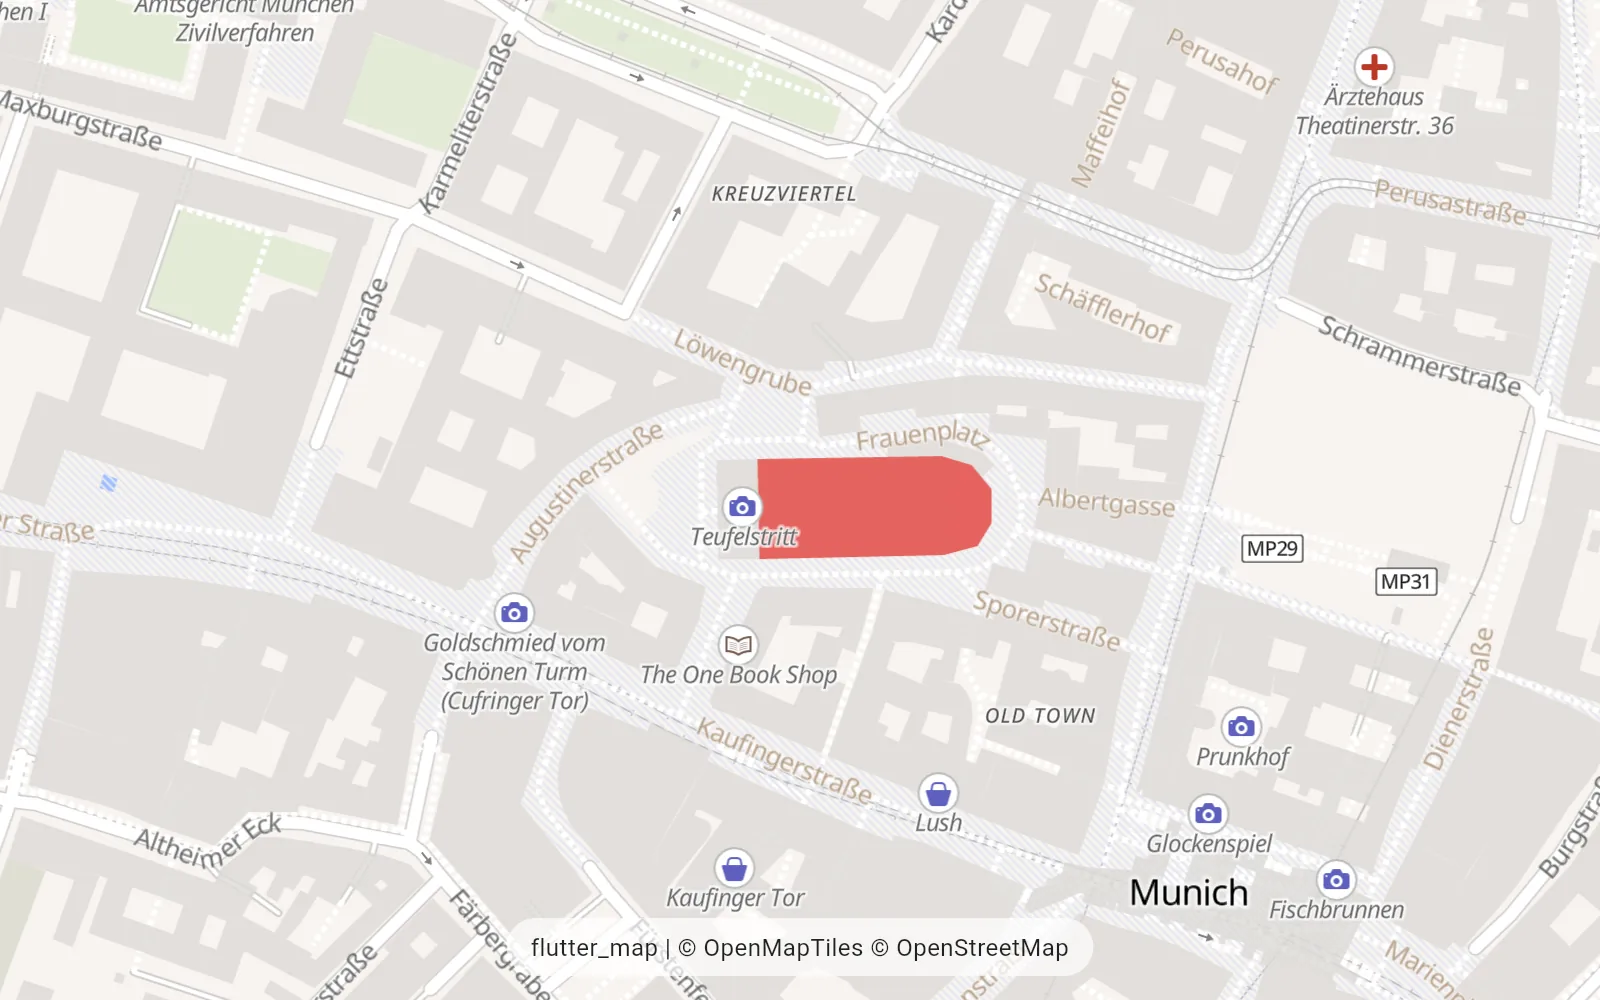
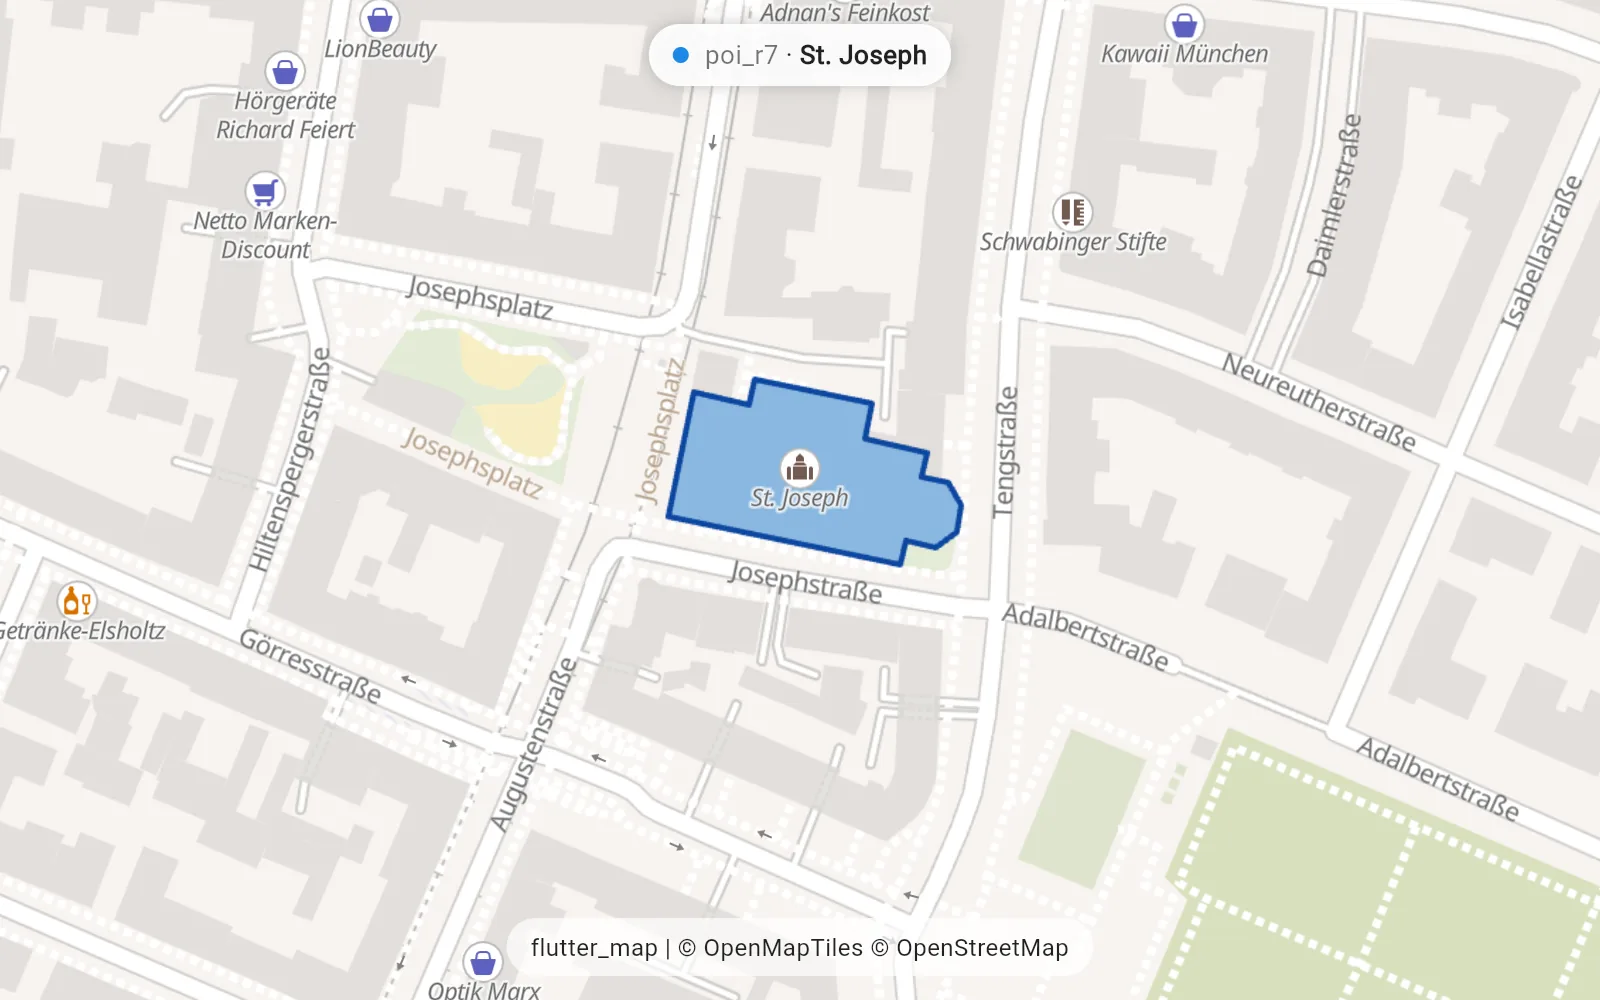
README shots: Plovdiv for scripts, a calmer query selection
The scripts shot moves from Tbilisi to Plovdiv: Liberty's label_other
uppercases Tbilisi's Georgian district names, and those drew as boxes
(probably because Georgian uppercases to Mtavruli, which the glyphs
don't cover), and the Bold capital label towered over the street
labels. Plovdiv is Cyrillic and Latin, every label real text, and its
city name is the Regular label_city.

The query shot taps St. Joseph in Munich, which is one feature in
OpenFreeMap's tiles; the Frauenkirche is split into nave and towers,
so selecting the nave stopped short of the towers. The selection is a
translucent blue fill with a darker outline now, and a pill shows the
query's top hit (poi_r7 · St. Joseph), as the example's snackbar does.

capture.mjs serves the web build on a free port instead of 8123, which
another process may hold.

diff --git a/screenshots/tool/shot_app.dart b/screenshots/tool/shot_app.dart
@@ -15,7 +15,7 @@
 // - `lang`: label language
 //
 // A tap selects the building under it through feature state, as the
-// example does.
+// example does, and shows what the query returned on top in a pill.
 import 'package:flutter/material.dart';
 import 'package:flutter_map/flutter_map.dart';
 import 'package:flutter_map_vector_tiles/flutter_map_vector_tiles.dart' as vt;
@@ -38,6 +38,7 @@ class _ShotMapState extends State<ShotMap> {
   final _features = vt.VectorTileLayerController();
   late final Future<vt.Style> _style;
   vt.RenderedFeature? _selected;
+  vt.RenderedFeature? _hit;
   vt.Theme? _theme;
 
   double _number(String name, double fallback) =>
@@ -60,12 +61,23 @@ class _ShotMapState extends State<ShotMap> {
     super.dispose();
   }
 
-  /// The style's layers plus one that paints the selected building.
+  /// The style's layers plus two that paint the selected building: a
+  /// translucent blue fill and a darker outline.
   vt.Theme _withSelection(vt.Theme theme) {
     final buildings = theme.layers
         .where((layer) => layer.sourceLayer == 'building')
         .firstOrNull;
     if (buildings == null) return theme;
+    List<Object> whenSelected(num value) => [
+          'case',
+          [
+            'boolean',
+            ['feature-state', 'selected'],
+            false
+          ],
+          value,
+          0,
+        ];
     final selection = const vt.ThemeReader().read({
       'layers': [
         {
@@ -74,17 +86,20 @@ class _ShotMapState extends State<ShotMap> {
           'source': buildings.source,
           'source-layer': 'building',
           'paint': {
-            'fill-color': '#e53935',
-            'fill-opacity': [
-              'case',
-              [
-                'boolean',
-                ['feature-state', 'selected'],
-                false
-              ],
-              0.75,
-              0,
-            ],
+            'fill-color': '#1e88e5',
+            'fill-opacity': whenSelected(0.45),
+          },
+        },
+        {
+          'id': 'selection-outline',
+          'type': 'line',
+          'source': buildings.source,
+          'source-layer': 'building',
+          'layout': {'line-join': 'round'},
+          'paint': {
+            'line-color': '#0d47a1',
+            'line-width': 2,
+            'line-opacity': whenSelected(1),
           },
         },
       ],
@@ -98,6 +113,10 @@ class _ShotMapState extends State<ShotMap> {
   void _onTap(TapPosition tap, LatLng _) {
     final point = tap.relative;
     if (point == null) return;
+    final hits = _features
+        .queryRenderedFeatures(point)
+        .where((f) => !f.layerId.startsWith('selection'))
+        .toList();
     final previous = _selected;
     if (previous != null) {
       _features.removeFeatureState(
@@ -107,21 +126,73 @@ class _ShotMapState extends State<ShotMap> {
       );
       _selected = null;
     }
-    final building = _features
-        .queryRenderedFeatures(point)
-        .where((f) =>
-            f.layerId != 'selection' &&
-            f.sourceLayer == 'building' &&
-            f.id != null)
+    final building = hits
+        .where((f) => f.sourceLayer == 'building' && f.id != null)
         .firstOrNull;
-    if (building == null) return;
-    _features.setFeatureState(
-      source: building.source,
-      sourceLayer: building.sourceLayer,
-      id: building.id!,
-      state: {'selected': true},
+    if (building != null) {
+      _features.setFeatureState(
+        source: building.source,
+        sourceLayer: building.sourceLayer,
+        id: building.id!,
+        state: {'selected': true},
+      );
+      _selected = building;
+    }
+    setState(() => _hit = hits.firstOrNull);
+  }
+
+  /// What the last tap's query returned on top, as the example's snackbar
+  /// shows it: the style layer that drew it and its name.
+  Widget _hitPill(vt.RenderedFeature hit) {
+    final name =
+        hit.properties['name'] ?? hit.properties['class'] ?? hit.geometryType;
+    return Align(
+      alignment: Alignment.topCenter,
+      child: Padding(
+        padding: const EdgeInsets.all(12),
+        child: DecoratedBox(
+          decoration: BoxDecoration(
+            color: Colors.white.withValues(alpha: 0.92),
+            borderRadius: BorderRadius.circular(16),
+            boxShadow: const [
+              BoxShadow(color: Color(0x33000000), blurRadius: 6),
+            ],
+          ),
+          child: Padding(
+            padding: const EdgeInsets.symmetric(horizontal: 12, vertical: 6),
+            child: Row(
+              mainAxisSize: MainAxisSize.min,
+              children: [
+                const DecoratedBox(
+                  decoration: BoxDecoration(
+                    color: Color(0xff1e88e5),
+                    shape: BoxShape.circle,
+                  ),
+                  child: SizedBox.square(dimension: 8),
+                ),
+                const SizedBox(width: 8),
+                Text.rich(
+                  TextSpan(
+                    style: const TextStyle(fontSize: 13, color: Colors.black87),
+                    children: [
+                      TextSpan(
+                        text: hit.layerId,
+                        style: const TextStyle(color: Colors.black54),
+                      ),
+                      const TextSpan(text: ' · '),
+                      TextSpan(
+                        text: '$name',
+                        style: const TextStyle(fontWeight: FontWeight.w600),
+                      ),
+                    ],
+                  ),
+                ),
+              ],
+            ),
+          ),
+        ),
+      ),
     );
-    _selected = building;
   }
 
   @override
@@ -159,6 +230,7 @@ class _ShotMapState extends State<ShotMap> {
                     : vt.ExtrusionMode.flat,
                 logger: const vt.Logger.console(),
               ),
+              if (_hit case final hit?) _hitPill(hit),
               if (style.attributions.isNotEmpty)
                 Align(
                   alignment: Alignment.bottomCenter,

diff --git a/screenshots/AGENTS.md b/screenshots/AGENTS.md
@@ -29,10 +29,10 @@ Every image the package shows of itself, and the pipeline that makes them.
 | `munich-dark-framed.webp` | Munich old town + Isar, OpenFreeMap Fiord (dark), zoom 15 |
 | `readme/3d-flat.webp`, `readme/3d-perspective.webp` | The same Manhattan view with `ExtrusionMode.flat` and `.perspective` |
 | `readme/heatmap.webp` | Munich with a heatmap of the OpenMapTiles `poi` points |
-| `readme/query.webp` | The Frauenkirche selected through feature state after a tap |
-| `readme/scripts.webp` | Tbilisi: Georgian and Latin labels from the style's glyphs |
+| `readme/query.webp` | St. Joseph in Munich, zoom 17.5, after a tap on its icon: the church selected through feature state (blue fill, darker outline), the query's top hit (`poi_r7 · St. Joseph`) in a pill |
+| `readme/scripts.webp` | Plovdiv, zoom 15: Cyrillic and Latin labels from the style's glyphs |
 | `readme/label-screen.webp`, `readme/label-tile.webp` | Munich turned by 30° with `LabelMode.screen` and `.tile` |
-| `tool/shot_app.dart` | The app the shots are taken of: one map configured from the page URL (`style`, `lat`, `lon`, `zoom`, `rot`, `extrusion`, `labels`, `lang`); a tap selects a building. Outside `example/` to keep the example small, but built with the example's package configuration, and analysed as part of the root package |
+| `tool/shot_app.dart` | The app the shots are taken of: one map configured from the page URL (`style`, `lat`, `lon`, `zoom`, `rot`, `extrusion`, `labels`, `lang`); a tap selects the building under it and shows the query's top hit in a pill. Outside `example/` to keep the example small, but built with the example's package configuration, and analysed as part of the root package |
 | `tool/capture.mjs` | The shot list, the styles (OpenFreeMap's, with compact attribution and per-shot additions), a static server for the web build, and the Playwright capture in headless Chrome. Plain shots are converted straight into `readme/` |
 | `tool/frame.py` | Puts a 1206×2622 capture into the bezel, clipped to the bezel's own screen cutout |
 | `tool/contact.py` | Contact sheet of the raw captures (`tool/out/contact.png`), for reviewing them at a glance |
@@ -65,7 +65,23 @@ writes a contact sheet. Needs network (OpenFreeMap tiles and glyphs), node,
   these captures** (seen with Japanese over Tokyo, 2026-11-18): Flutter
   web downloads the fallback fonts, but labels already shaped keep their
   boxes. Pick places whose scripts the glyphs cover (Latin, Greek,
-  Cyrillic, Armenian, Georgian) until that is fixed.
+  Cyrillic, Armenian, Georgian) until that is fixed. That goes for what
+  `text-transform: uppercase` makes of a script, too: Liberty's
+  `label_other` uppercases district names, and Tbilisi's Georgian ones
+  came out as boxes (2026-11-18), probably because Georgian uppercases
+  to Mtavruli (U+1C90–U+1CBF), outside the glyphs' Georgian range.
+  Check the uppercase district labels as closely as the rest.
+- **Capitals** label themselves in Liberty's Bold `label_city_capital`,
+  which towers over the street labels at street zooms; the `scripts`
+  shot is of a city that is not a capital for that reason.
+- **A tap selects one feature, and in OpenFreeMap's tiles that is often
+  not one building.** Landmarks are split into `building:part`
+  features (the Frauenkirche into nave and towers, so selecting the nave
+  left the towers out), and buildings that share their attributes
+  (height, colour) are merged into one multipolygon per tile, so
+  selecting one lights up many at once. The `query` shot taps a
+  building that is one feature on its own; check a new one with the
+  tile before using it.
 - **The bezel** is Apple's official product bezel (Apple Design Resources,
   direct download
   `https://devimages-cdn.apple.com/design/resources/download/Bezel-iPhone-17.dmg`;

diff --git a/README.md b/README.md
@@ -143,13 +143,13 @@ flutter run --dart-define=MAPTILER_KEY=yourKey
       <a href="doc/STYLE_SUPPORT.md#heatmaps">Heatmap</a> layers
     </td>
     <td width="50%" align="center" valign="top">
-      <img src="screenshots/readme/query.webp" alt="A tapped building highlighted in red"><br>
-      A tapped building, highlighted through <a href="doc/QUERYING.md">feature state</a>
+      <img src="screenshots/readme/query.webp" alt="St. Joseph in Munich after a tap: the church highlighted in blue, and a pill naming the query's top hit, poi_r7 · St. Joseph"><br>
+      A tap, <a href="doc/QUERYING.md">queried</a>: the top hit in the pill, the building under it highlighted through feature state
     </td>
   </tr>
   <tr>
     <td width="50%" align="center" valign="top">
-      <img src="screenshots/readme/scripts.webp" alt="Tbilisi with Georgian and Latin labels"><br>
+      <img src="screenshots/readme/scripts.webp" alt="Plovdiv with Cyrillic and Latin labels"><br>
       Labels in the style's own <a href="doc/LABELS.md#fonts">fonts</a>
     </td>
     <td width="50%" align="center" valign="top">

diff --git a/doc/QUERYING.md b/doc/QUERYING.md
@@ -2,7 +2,7 @@
 
 Ask what is drawn at a point, and restyle single features at runtime. Part of the [flutter_map_vector_tiles](../README.md) documentation.
 
-![A tapped building highlighted in red](../screenshots/readme/query.webp)
+![St. Joseph in Munich after a tap: the church highlighted in blue, and a pill naming the query's top hit, poi_r7 · St. Joseph](../screenshots/readme/query.webp)
 
 - [Example](#example)
 - [Queries](#queries)

diff --git a/doc/LABELS.md b/doc/LABELS.md
@@ -182,7 +182,7 @@ has already shaped, and shown from the frame after it was asked for.
 
 ## Fonts
 
-![Tbilisi with Georgian and Latin labels](../screenshots/readme/scripts.webp)
+![Plovdiv with Cyrillic and Latin labels](../screenshots/readme/scripts.webp)
 
 Pass `glyphs: style.glyphs` and labels are drawn in the style's own
 fonts, from the glyph PBFs its `glyphs` URL serves, as MapLibre draws
